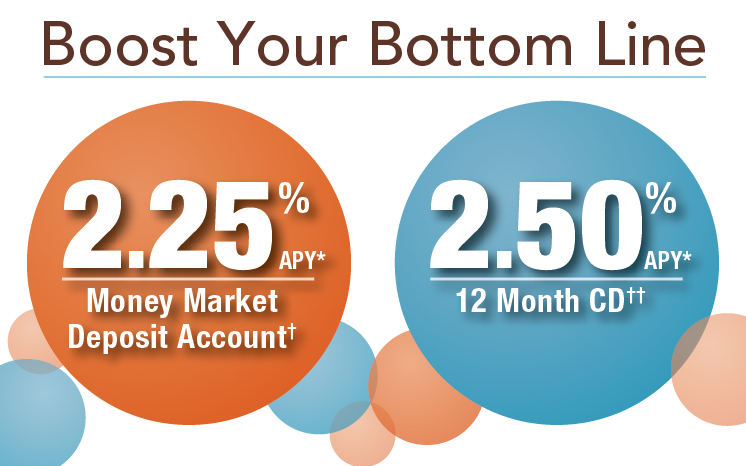
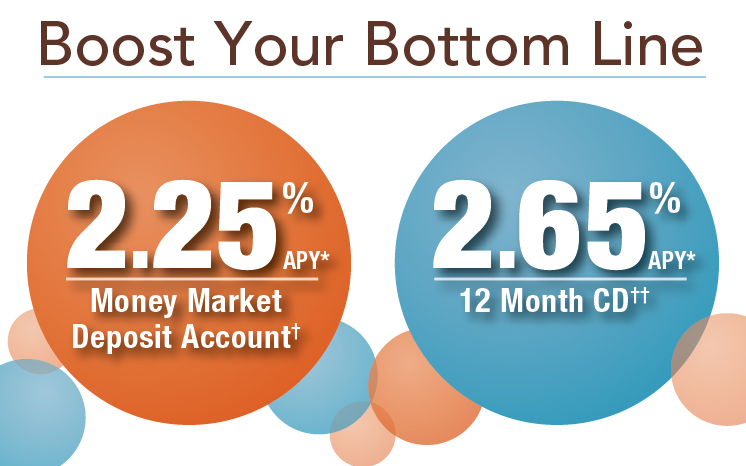
Updated images and rates

diff --git a/savings.html b/savings.html
@@ -137,7 +137,7 @@
               </div>
             </div><!-- row -->
             <div class="row spacer">
-              <p class="small para-margin"><sup>*</sup>Annual Percentage Yield (APY) <sup>†</sup>Money Market Deposit Account: Promotional rate of 2.25% APY for new accounts effective as of 11/12/18 and guaranteed for the first 365 days after account opening. Promotional rate offered on $10,000.00 or more of new money not currently on deposit within last 30 days with CIBM Bank. Minimum opening deposit of $100.00. The interest rate is subject to change at any time after initial 365 days. As of 10/10/18 Personal Money Market balances of $0.00-$9,999.99 (.08% APY); $10,000.00-$24,999.99 (.10% APY); $25,000.00-$49,999.99 (.13% APY); $50,000.00-$99,999.99 (.14% APY); $100,000.00 and above (.15% APY). Monthly fee $2.00 per debit if $1,000.00 minimum balance not maintained. As of 10/10/18 Business Money Market balances of $0.00-$9,999.99 (.08% APY); $10,000.00-$24,999.99 (.10% APY); $25,000.00-$49,999.99 (.13% APY); $50,000.00-$99,999.99 (.14% APY); $100,000.00 and above (.15% APY). Monthly fee $15.00 service charge if $5,000.00 minimum balance not maintained. Fees may reduce earnings. Accounts closed within 6 months of opening date subject to a $25.00 closing fee.  <sup>††</sup>12 Month Certificate of Deposit & IRA: Promotional rate of 2.50% (APY) effective as of 10/29/18 and guaranteed for the term of the account. Offer limited to $10,000.00 or more of new money not currently on deposit within last 30 days with CIBM Bank. Minimum opening deposit of $2,500.00 and a maximum of $250,000.00. Withdrawals made prior to maturity may be subject to an early withdrawal penalty. Offer not available in combination with any other offer.</p>
+              <p class="small para-margin"><sup>*</sup>Annual Percentage Yield (APY) <sup>†</sup>Money Market Deposit Account: Promotional rate of 2.25% APY for new accounts effective as of 11/12/18 and guaranteed for the first 365 days after account opening. Promotional rate offered on $10,000.00 or more of new money not currently on deposit within last 30 days with CIBM Bank. Minimum opening deposit of $100.00. The interest rate is subject to change at any time after initial 365 days. As of 10/10/18 Personal Money Market balances of $0.00-$9,999.99 (.08% APY); $10,000.00-$24,999.99 (.10% APY); $25,000.00-$49,999.99 (.13% APY); $50,000.00-$99,999.99 (.14% APY); $100,000.00 and above (.15% APY). Monthly fee $2.00 per debit if $1,000.00 minimum balance not maintained. As of 10/10/18 Business Money Market balances of $0.00-$9,999.99 (.08% APY); $10,000.00-$24,999.99 (.10% APY); $25,000.00-$49,999.99 (.13% APY); $50,000.00-$99,999.99 (.14% APY); $100,000.00 and above (.15% APY). Monthly fee $15.00 service charge if $5,000.00 minimum balance not maintained. Fees may reduce earnings. Accounts closed within 6 months of opening date subject to a $25.00 closing fee.  <sup>††</sup>12 Month Certificate of Deposit & IRA: Promotional rate of 2.65% (APY) effective as of 11/14/18 and guaranteed for the term of the account. Offer limited to $10,000.00 or more of new money not currently on deposit within last 30 days with CIBM Bank. Minimum opening deposit of $2,500.00 and a maximum of $250,000.00. Withdrawals made prior to maturity may be subject to an early withdrawal penalty. Offer not available in combination with any other offer.</p>
             </div><!-- row -->
             <div class="row spacer">
               <div class="col-md-6">
